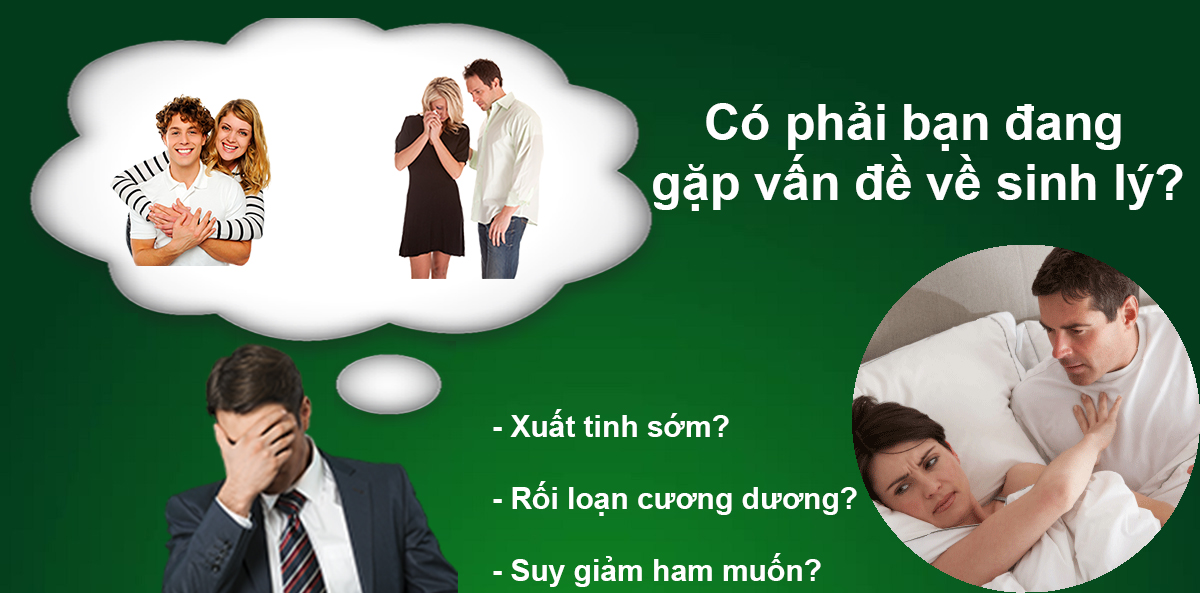
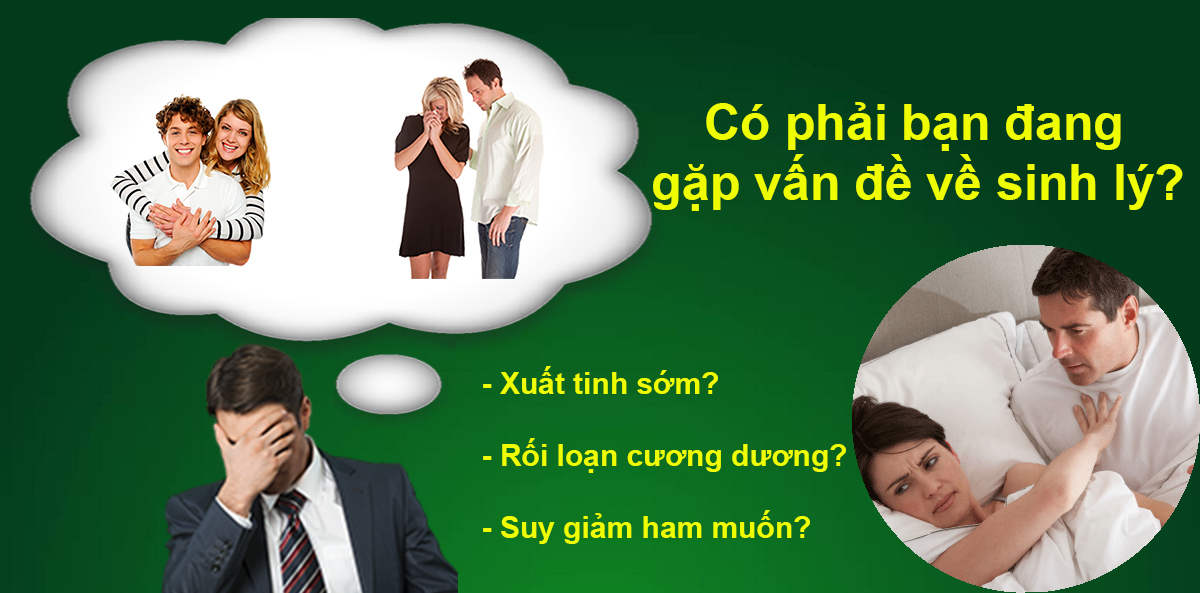
hihi

diff --git a/website/thapbat/index.html b/website/thapbat/index.html
@@ -188,6 +188,7 @@
                                 yếu sinh lý, xuất tinh sớm ở nam giới.Thập Bát Hoàn Dương Khang có nguồn gốc cổ từ bài Cố
                                 Tinh Hoàn Dương Khang do vị danh y thời Nguyễn để lại.
                             </p>
+                            <div class="clear"></div>
                         </div>
                         <div class="sanpham__right">
                             <span style="font-size: 80px">VIDEO</span>
@@ -283,7 +284,7 @@
         <div class="danhgia__wrap">
             <h2 class="head">chuyên gia đánh giá </h2>
             <div class="danhgia__text">
-                <h3>Bác sĩ Hiển đẹp trai - GĐ chuyên môn PK Đồng Đội</h3>
+                <h3>Bác sĩ Lê Ngọc Hển - GĐ chuyên môn PK Đồng Đội</h3>
                 <p>
                     “Bài thuốc chữa yếu sinh lý thập bát hoàn dương khang là một trong những tinh hoa y học cổ truyền cần được gìn giữ và phát
                     triển. Đây là tiền đề quan trọng để các chuyên gia nghiên cứu, hoàn thiện bài thuốc, góp phần tìm ra
@@ -295,7 +296,7 @@
                     </br>
                 </p>
                 <hr>
-                <h3>Bác sĩ Phan cool, bác sĩ cấp cao PK Đồng Đội</h3>
+                <h3>Bác sĩ Nguyễn Thúy Nhung, Bác sĩ chuyên khoa PK Đồng Đội</h3>
                 <p>
                     "Thập bát hoàn dương khang được Hội đồng khoa học đánh giá có tác dụng tốt với những người suy giảm testosterol, giảm ham
                     muốn tình dục, dương vật ít cương cứng, rối loạn xuất tinh, hiếm muộn... Theo quan niệm của Đông y, các
@@ -338,8 +339,9 @@
 
     <div class="footer">
         <p>
-            &copy; Copyright by Cuong </br>
-            07/15/2018
+            &copy; PHÒNG CHẨN TRỊ Y HỌC CỔ TRUYỀN ĐỒNG ĐỘI </br>
+            Số 2 Ngõ 639 Hoàng Hoa Thám - Hà Nội </br>
+            Hotline : 0947 517 328 - 0971 830 320
         </p>
     </div>
 

diff --git a/website/thapbat/style.css b/website/thapbat/style.css
@@ -31,13 +31,13 @@
 }
 .banner__button{
     position: absolute;
-    top: 60%;
-    left: 50%;
+    top: 50%;
+    left: 60%;
     transform: translate(-50%,-50%);
 }
 @keyframes kfinput {
-    50%{background: #015a03;color: white;}
-    100%{background: white;color: #015a03;}
+    50%{background: #015a03;color: #eefd02;}
+    100%{background: #eefd02;color: #015a03;}
 }
 .banner__button input{
     /* background: #015a03;
@@ -69,7 +69,7 @@
     max-width: 100%;
 }
 .menu__logo a {
-    background: white;
+    background: #eefd02;
     color: #015a03;
     text-decoration:none;
     font-size: 25px;
@@ -109,9 +109,9 @@
 }
 .list a{
     text-decoration: none;
-    color: white;
+    color: #eefd02;
     /* background: white; */
-    border: 2px solid #015a03;
+    border: 2px solid white;
     padding: 10px 20px;
     margin : 0 auto;
     transition: 1s;
@@ -119,7 +119,7 @@
 }
 .list a:hover{
     color: white;
-    border: 2px solid white;
+    border: 2px solid #eefd02;
 }
 .content{
     background: #3faf41b8;
@@ -315,7 +315,7 @@
 .button{
     height: 50px;
     background-color: #015a03;
-    color: white;
+    color: #eefd02;
     border-radius: 20%;
     width: 300px;
     font-size: 18px;
@@ -323,6 +323,27 @@
 .button:active{
     background: black;
     color: white;
+}
+@media only screen and (max-width: 768px) {
+    /* For mobile phones: */
+    [class*=sanpham__left]{
+        float: none;
+        max-width: unset;
+    }
+    [class*=sanpham__right]{
+        max-width: unset;
+        float: none;
+    }
+    [class*=thanhphan__wrap]{
+        float: none;
+    }
+    [class*=thanhphan__img]{
+        max-width: unset;
+        float: none;
+    }
+    [class*=head]{
+        font-size: 25px;
+    }
 }
 .congdung{
     text-align: center;
@@ -428,9 +449,9 @@
     content: '';
 }
 .footer{
-    height: 50px;
-    background-color: #015a03;
-    color : white;
+    height: 100px;
+    background-color: #023b1b;
+    color : #eefd02;
     text-align: center;
     display: flex;
     justify-content: center;
